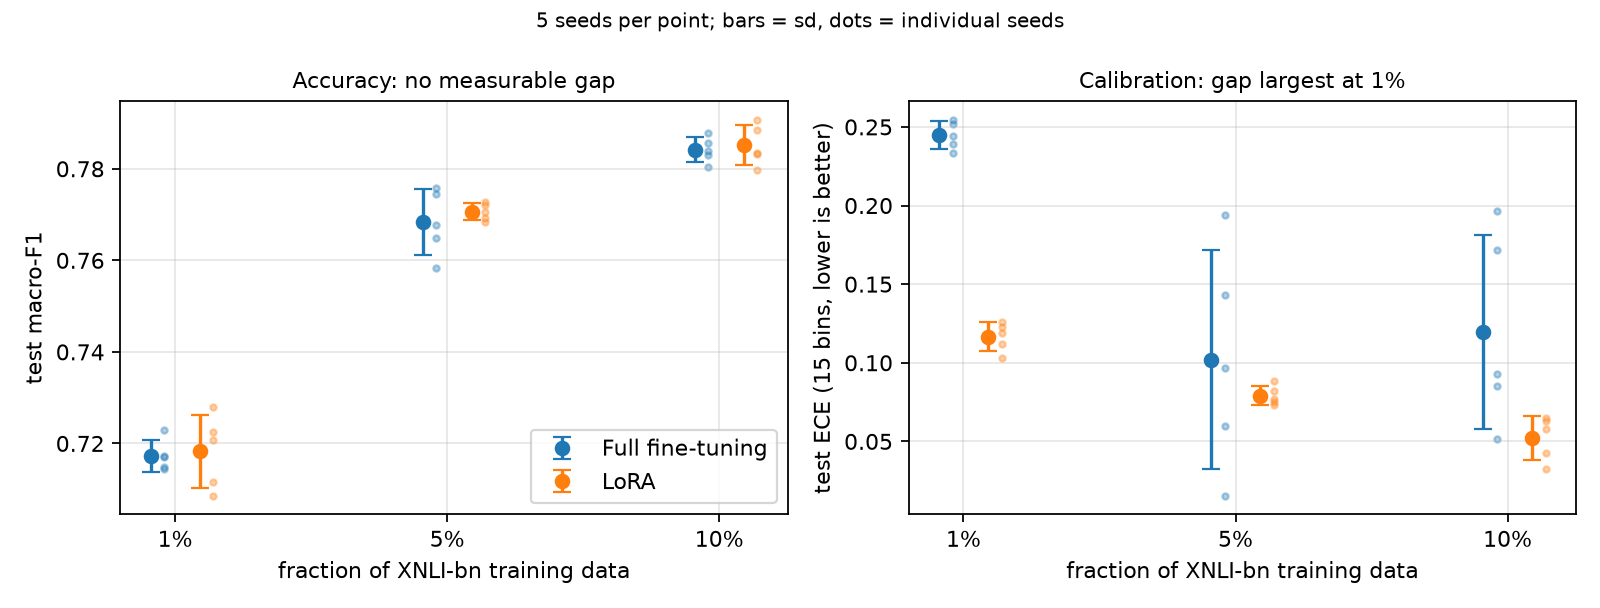
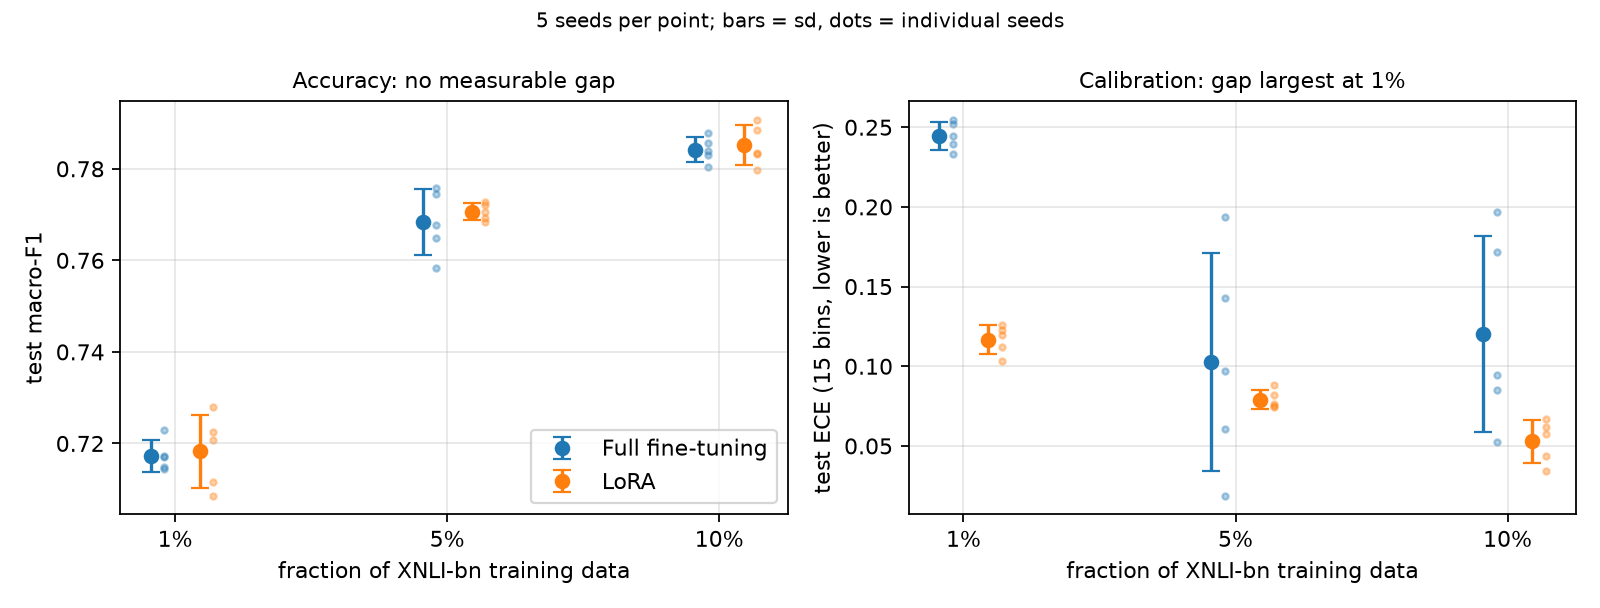
Add Brier, NLL and 5-fold temperature scaling; report seed- and item-level CIs
- ECE bins now span the attainable range [1/3, 1].
- Brier score and NLL alongside ECE.
- Temperature scaling is 5-fold cross-validated on the test set.
- Calibration differences get a seed-level CI (includes training variability)
  and an item-level bootstrap CI (models fixed). At 5% and 10% only the
  item-level intervals exclude zero.
- TOST at +/-0.01 macro-F1 with exact p-values; 5% is on the boundary.
- README: calibration table, TOST table, subset-indices limitation.

diff --git a/src/analyze.py b/src/analyze.py
@@ -1,17 +1,20 @@
 """Every number in the README, recomputed from results/. No GPU needed.
 
     python src/analyze.py                  # tables to stdout, figures to figures/
-    python src/analyze.py --margin 0.01    # also run TOST at a stated margin
+    python src/analyze.py --margin 0.02    # TOST at another margin (default 0.01)
 
 Reads runs/*.json (manifests), preds/*_test.npz (test logits and labels),
 curves/*.json (per-epoch dev curves) and superseded_runs.csv (the six earlier runs
-that A100 re-runs replaced). Only test logits are saved, so temperature scaling is
-cross-fitted on the test set: fit T on one half, score ECE on the other, swap and
-average. It is a sensitivity check, not a validation-fitted calibration result.
+that A100 re-runs replaced).
 
-No equivalence margin was fixed before the data were collected, so TOST runs only
-when --margin is given. Otherwise the smallest margin each 90% CI would support is
-reported, which is descriptive, not a test.
+Calibration differences get two intervals, because they answer different questions:
+  seed-level  paired t over the five seeds. Includes training variability, so it is
+              the one that says whether retraining would give the same answer.
+  item-level  paired bootstrap over test items with the five trained models held
+              fixed. It only covers test-set sampling noise for these models.
+
+Only test logits are saved, so temperature scaling is 5-fold cross-validated on the
+test set: T is fitted on four folds and applied to the fifth.
 """
 import argparse
 import glob
@@ -28,6 +31,8 @@ METHODS = ("full_ft", "lora")
 LABEL = {"full_ft": "Full fine-tuning", "lora": "LoRA"}
 N_BINS = 15
 BOOT_N = 10000
+ITEM_BOOT_N = 2000
+TOST_MARGIN = 0.01   # one macro-F1 point; set after data collection, not pre-registered
 
 
 def softmax(z):
@@ -37,33 +42,58 @@ def softmax(z):
 
 
 def ece(p, y, n_bins=N_BINS):
-    """Expected calibration error, equal-width confidence bins on the top-1 prob."""
-    conf, pred = p.max(1), p.argmax(1)
-    edges = np.linspace(0, 1, n_bins + 1)
+    """Top-label expected calibration error. Equal-width bins span the attainable
+    confidence range [1/C, 1]; with 3 classes the top probability is never below 1/3."""
+    conf, correct = p.max(1), p.argmax(1) == y
+    edges = np.linspace(1.0 / p.shape[1], 1.0, n_bins + 1)
+    edges[0], edges[-1] = 0.0, 1.0 + 1e-9
     total = 0.0
     for lo, hi in zip(edges[:-1], edges[1:]):
-        m = (conf > lo) & (conf <= hi)
+        m = (conf >= lo) & (conf < hi)
         if m.any():
-            total += m.mean() * abs((pred[m] == y[m]).mean() - conf[m].mean())
+            total += m.mean() * abs(correct[m].mean() - conf[m].mean())
     return total
 
 
+def nll(p, y):
+    return float(-np.log(np.clip(p[np.arange(len(y)), y], 1e-12, 1.0)).mean())
+
+
+def brier(p, y):
+    return float(((p - np.eye(p.shape[1])[y]) ** 2).sum(1).mean())
+
+
+CALIBRATION = {"ECE": ece, "Brier": brier, "NLL": nll}
+
+
 def fit_temperature(logits, y):
-    def nll(t):
-        p = softmax(logits / t)
-        return -np.log(p[np.arange(len(y)), y] + 1e-12).mean()
-    return minimize_scalar(nll, bounds=(0.05, 20.0), method="bounded").x
+    return minimize_scalar(lambda t: nll(softmax(logits / t), y),
+                           bounds=(0.05, 10.0), method="bounded").x
 
 
-def crossfit_ece(logits, y, seed=0):
-    """Two-fold cross-fitted temperature scaling on the test set."""
-    idx = np.random.default_rng(seed).permutation(len(y))
-    a, b = idx[: len(y) // 2], idx[len(y) // 2:]
-    out = []
-    for fit, ev in ((a, b), (b, a)):
-        t = fit_temperature(logits[fit], y[fit])
-        out.append(ece(softmax(logits[ev] / t), y[ev]))
-    return float(np.mean(out))
+def cv_temperature(logits, y, seed, k=5):
+    """Temperature-scaled probabilities, each fold scaled by a T fitted on the
+    other k-1 folds. Returns (probs, mean T)."""
+    folds = np.array_split(np.random.default_rng(seed).permutation(len(y)), k)
+    out, temps = np.zeros_like(logits), []
+    for i, test in enumerate(folds):
+        train = np.concatenate([f for j, f in enumerate(folds) if j != i])
+        t = fit_temperature(logits[train], y[train])
+        temps.append(t)
+        out[test] = softmax(logits[test] / t)
+    return out, float(np.mean(temps))
+
+
+def item_bootstrap_gap(pairs, metric, rng, n_boot=ITEM_BOOT_N):
+    """95% CI on the seed-averaged LoRA - full difference in `metric`, resampling
+    test items (paired across methods and seeds) with the models held fixed."""
+    y = pairs[0][2]
+    boot = []
+    for _ in range(n_boot):
+        idx = rng.integers(0, len(y), len(y))
+        boot.append(np.mean([metric(pl[idx], yy[idx]) - metric(pf[idx], yy[idx])
+                             for pf, pl, yy in pairs]))
+    return np.percentile(boot, [2.5, 97.5])
 
 
 def paired_t_ci(d, level=0.95):
@@ -88,16 +118,16 @@ def mcnemar_exact(right_a, right_b):
     return b, c, stats.binomtest(b, b + c, 0.5).pvalue if b + c else 1.0
 
 
-def gap_line(d, margin=None):
+def gap_line(d, margin):
     lo, hi = paired_t_ci(d)
     lo90, hi90 = paired_t_ci(d, 0.90)
-    out = (f"gap {d.mean():+.4f}  95% CI [{lo:+.4f}, {hi:+.4f}]  "
-           f"p={stats.ttest_rel(d, np.zeros(len(d))).pvalue:.3f}  "
-           f"90% CI [{lo90:+.4f}, {hi90:+.4f}]  "
-           f"smallest supported margin {max(-lo90, hi90):.4f}")
-    if margin:
-        out += f"  TOST {'EQUIVALENT' if lo90 > -margin and hi90 < margin else 'not shown'}"
-    return out
+    se = d.std(ddof=1) / np.sqrt(len(d))
+    p_tost = max(1 - stats.t.cdf((d.mean() + margin) / se, len(d) - 1),
+                 stats.t.cdf((d.mean() - margin) / se, len(d) - 1))
+    return (f"gap {d.mean():+.4f}  95% CI [{lo:+.4f}, {hi:+.4f}]  "
+            f"p={stats.ttest_rel(d, np.zeros(len(d))).pvalue:.3f}  "
+            f"90% CI [{lo90:+.4f}, {hi90:+.4f}]  "
+            f"TOST +/-{margin:g} p={p_tost:.6f}")
 
 
 def sensitivity(art, wide, margin):
@@ -136,9 +166,8 @@ def main():
     ap = argparse.ArgumentParser(description=__doc__.split("\n")[0])
     ap.add_argument("--artifacts", default="results")
     ap.add_argument("--figures", default="figures")
-    ap.add_argument("--margin", type=float, default=None,
-                    help="TOST equivalence margin on macro-F1. Must be justified "
-                         "independently of these results; none is by default.")
+    ap.add_argument("--margin", type=float, default=TOST_MARGIN,
+                    help="TOST equivalence margin on macro-F1 (default 0.01)")
     args = ap.parse_args()
     art = args.artifacts
 
@@ -156,22 +185,23 @@ def main():
     for _, r in runs.iterrows():
         logits, y = load(art, r.run_id)
         p = softmax(logits)
-        preds[r.run_id] = (logits, p, y)
+        p_ts, temp = cv_temperature(logits, y, seed=int(r.seed))
+        preds[r.run_id] = (logits, p, y, p_ts)
         rows.append(dict(run_id=r.run_id, method=r.method, fraction=r.fraction, seed=r.seed,
                          gpu=r.gpu, best_epoch=r.best_epoch, ceiling_hit=r.ceiling_hit,
                          f1=f1_score(y, p.argmax(1), average="macro"),
                          acc=(p.argmax(1) == y).mean(), conf=p.max(1).mean(),
-                         ece=ece(p, y), ece_ts=crossfit_ece(logits, y)))
+                         ECE=ece(p, y), Brier=brier(p, y), NLL=nll(p, y),
+                         ECE_ts=ece(p_ts, y), T=temp))
     m = pd.DataFrame(rows)
     wide = m.pivot_table(index=["fraction", "seed"], columns="method",
-                         values=["f1", "ece", "ece_ts", "best_epoch"])
+                         values=["f1", "ECE", "Brier", "NLL", "ECE_ts", "best_epoch"])
 
     split = runs.groupby(["fraction", "seed"]).gpu.nunique()
     print(f"(fraction, seed) pairs split across GPUs: {int((split > 1).sum())}")
 
     # ---- accuracy + TOST -----------------------------------------------------
-    print("\n=== test macro-F1"
-          + (f" (TOST margin +/-{args.margin})" if args.margin else "") + " ===")
+    print(f"\n=== test macro-F1 (TOST margin +/-{args.margin:g}, p < 0.05 = equivalent) ===")
     for f in fractions:
         a, b = wide.loc[f, ("f1", "full_ft")], wide.loc[f, ("f1", "lora")]
         print(f"{f:<5g} full {a.mean():.4f} (sd {a.std():.4f})  lora {b.mean():.4f} "
@@ -184,8 +214,8 @@ def main():
     tests = []
     for f in fractions:
         for s in seeds:
-            _, pf, y = preds[f"full_ft_frac{f:g}_seed{s}"]
-            _, pl, _ = preds[f"lora_frac{f:g}_seed{s}"]
+            _, pf, y, _ = preds[f"full_ft_frac{f:g}_seed{s}"]
+            _, pl, _, _ = preds[f"lora_frac{f:g}_seed{s}"]
             b, c, p = mcnemar_exact(pf.argmax(1) == y, pl.argmax(1) == y)
             tests.append((f, s, b, c, p, (pf.argmax(1) == pl.argmax(1)).mean()))
     adj = holm(np.array([t[4] for t in tests]))
@@ -202,26 +232,32 @@ def main():
           .agg({"agree": "mean", "b": "sum", "c": "sum"}).round(4).to_string())
 
     # ---- calibration ---------------------------------------------------------
-    rng = np.random.default_rng(0)
-    print(f"\n=== calibration: ECE ({N_BINS} bins), paired over seeds ===")
+    rng = np.random.default_rng(20260910)
+    print(f"\n=== calibration, LoRA - full (negative = LoRA better; ECE {N_BINS} bins) ===")
+    print("seed-level: paired t over seeds (includes training variability)")
+    print("item-level: paired bootstrap over test items, models held fixed")
     for f in fractions:
-        ef, el = wide.loc[f, ("ece", "full_ft")], wide.loc[f, ("ece", "lora")]
-        d = (el - ef).values
-        boot = rng.choice(d, (BOOT_N, len(d))).mean(1)
-        tf, tl = wide.loc[f, ("ece_ts", "full_ft")], wide.loc[f, ("ece_ts", "lora")]
-        dt = (tl - tf).values
-        lo_t, hi_t = paired_t_ci(dt)
-        sub = m[m.fraction == f].groupby("method")[["conf", "acc"]].mean()
-        print(f"{f:<5g} full {ef.mean():.3f} (sd {ef.std():.3f})  lora {el.mean():.3f} "
-              f"(sd {el.std():.3f})  dECE {d.mean():+.3f}  p={stats.ttest_rel(el, ef).pvalue:.2g}  "
-              f"t-CI [{paired_t_ci(d)[0]:+.3f}, {paired_t_ci(d)[1]:+.3f}]  "
-              f"seed-bootstrap CI [{np.percentile(boot, 2.5):+.3f}, {np.percentile(boot, 97.5):+.3f}]  "
-              f"dz={d.mean() / d.std(ddof=1):.1f}  seeds LoRA better {int((d < 0).sum())}/{len(d)}")
-        print(f"      mean confidence full {sub.loc['full_ft', 'conf']:.3f} / lora "
+        pairs_raw = [(preds[f"full_ft_frac{f:g}_seed{s}"][1], preds[f"lora_frac{f:g}_seed{s}"][1],
+                      preds[f"full_ft_frac{f:g}_seed{s}"][2]) for s in seeds]
+        pairs_ts = [(preds[f"full_ft_frac{f:g}_seed{s}"][3], preds[f"lora_frac{f:g}_seed{s}"][3],
+                     preds[f"full_ft_frac{f:g}_seed{s}"][2]) for s in seeds]
+        sub = m[m.fraction == f].groupby("method")[["conf", "acc", "T"]].mean()
+        print(f"{f:g}: mean confidence full {sub.loc['full_ft', 'conf']:.3f} / lora "
               f"{sub.loc['lora', 'conf']:.3f} at accuracy {sub.loc['full_ft', 'acc']:.3f} / "
-              f"{sub.loc['lora', 'acc']:.3f}")
-        print(f"      after cross-fitted temperature scaling: full {tf.mean():.3f}  lora "
-              f"{tl.mean():.3f}  dECE {dt.mean():+.3f}  t-CI [{lo_t:+.3f}, {hi_t:+.3f}]")
+              f"{sub.loc['lora', 'acc']:.3f}; fitted T full {sub.loc['full_ft', 'T']:.2f}, "
+              f"lora {sub.loc['lora', 'T']:.2f}")
+        for name, col, pairs, fn in (("ECE", "ECE", pairs_raw, ece),
+                                     ("Brier", "Brier", pairs_raw, brier),
+                                     ("NLL", "NLL", pairs_raw, nll),
+                                     ("ECE after T", "ECE_ts", pairs_ts, ece)):
+            a_, b_ = wide.loc[f, (col, "full_ft")], wide.loc[f, (col, "lora")]
+            d = (b_ - a_).values
+            lo, hi = paired_t_ci(d)
+            ilo, ihi = item_bootstrap_gap(pairs, fn, rng)
+            print(f"  {name:12s} full {a_.mean():.4f} (sd {a_.std():.4f})  lora {b_.mean():.4f} "
+                  f"(sd {b_.std():.4f})  diff {d.mean():+.4f}  seed-level [{lo:+.4f}, {hi:+.4f}] "
+                  f"p={stats.ttest_rel(b_, a_).pvalue:.2g}  LoRA lower in {int((d < 0).sum())}/{len(d)}"
+                  f"  item-level [{ilo:+.4f}, {ihi:+.4f}]")
 
     # ---- convergence ---------------------------------------------------------
     print("\n=== best (dev-selected) epoch ===")
@@ -259,7 +295,7 @@ def figures(art, out, m, fractions):
     fig, axes = plt.subplots(1, 2, figsize=(10, 3.8))
     for ax, col, ylabel, title in (
             (axes[0], "f1", "test macro-F1", "Accuracy: no measurable gap"),
-            (axes[1], "ece", f"test ECE ({N_BINS} bins, lower is better)",
+            (axes[1], "ECE", f"test ECE ({N_BINS} bins, lower is better)",
              "Calibration: gap largest at 1%")):
         for j, meth in enumerate(METHODS):
             g = m[m.method == meth].groupby("fraction")[col]

diff --git a/README.md b/README.md
@@ -10,8 +10,8 @@ the training set with five seeds each, for 30 runs.
 
 | | Result |
 |---|---|
-| Accuracy | No measurable difference at any data size. Test macro-F1 gaps are +0.0010 to +0.0024 and every 95% CI includes zero. |
-| Calibration | At 1% data, full fine-tuning is badly overconfident (ECE 0.245 vs 0.117). At 5% and 10% the gap is smaller and not significant. |
+| Accuracy | No measurable difference at any data size (gaps +0.0010 to +0.0024, every 95% CI includes zero). Equivalent within ±0.01 macro-F1 at 1% and 10%; at 5% the test sits exactly on the boundary. |
+| Calibration | At 1% data, full fine-tuning is badly overconfident (ECE 0.245 vs 0.117), consistently across seeds. At 5% and 10% the raw gap is not consistent across seeds. After temperature scaling LoRA keeps a small edge in every seed at every fraction. |
 | Efficiency | LoRA trains 0.80% of the parameters, saves a 124× smaller artefact, and uses 25% (T4) to 42% (A100) less peak GPU memory. |
 | Speed | LoRA is 1.5–2.1× faster on a T4 but not faster on an A100 (parity at 1%, about 6% slower at 5–10%). |
 
@@ -28,7 +28,7 @@ the training set with five seeds each, for 30 runs.
 | LoRA | r=8, alpha=16, dropout 0.1, on `query` and `value`, learning rate 2e-4 |
 | Training | 8 epochs, batch size 16, fp16, no early stopping |
 | Model selection | epoch with the best validation macro-F1; test scored once per run |
-| Subsets | `train.shuffle(seed).select(range(n))`, so both methods see the same data per seed |
+| Subsets | `train.shuffle(seed).select(range(n))`: same subset for both methods per seed (indices not saved) |
 | Seeds | 7, 13, 21, 33, 42 |
 
 Both methods get the same fixed budget. In a pilot, early stopping with patience 2 stopped
@@ -53,30 +53,65 @@ All numbers come from `python src/analyze.py`. The full output is in
 ± is the standard deviation over seeds. Per-seed exact McNemar tests: 1 of 15 has
 p < 0.05 and none survives Holm correction.
 
-No equivalence margin was fixed before the experiment, so no equivalence claim is made.
-The 90% CIs would support margins of ±0.0059 (1%), ±0.0100 (5%) and ±0.0065 (10%).
+Equivalence is tested with TOST at a margin of ±0.01 macro-F1 (one point). The margin was
+set in the analysis after the runs had finished; it was not pre-registered.
+
+| Fraction | 90% CI of the gap | TOST p (±0.01) |
+|---|---|---|
+| 1% | [−0.0039, +0.0059] | 0.009 |
+| 5% | [−0.0053, +0.0100] | 0.050 |
+| 10% | [−0.0046, +0.0065] | 0.013 |
+
+At 5% the upper bound of the 90% CI equals the margin (p = 0.049997), so equivalence there
+depends on the fourth decimal and is not claimed.
 
 The two methods reach the same score with different predictions. They agree on 83.9% (1%),
 86.6% (5%) and 86.9% (10%) of test items.
 
 ### Calibration
 
-Expected calibration error, 15 equal-width bins:
+Differences are LoRA minus full fine-tuning, so negative means LoRA is better calibrated.
+ECE uses 15 equal-width bins over the attainable confidence range [1/3, 1].
 
-| Fraction | Full FT ECE | LoRA ECE | Difference | 95% CI | p | Seeds where LoRA is lower |
-|---|---|---|---|---|---|---|
-| 1% | 0.245 ± 0.009 | 0.117 ± 0.009 | −0.128 | [−0.139, −0.117] | 5 × 10⁻⁶ | 5/5 |
-| 5% | 0.102 ± 0.070 | 0.079 ± 0.006 | −0.023 | [−0.103, +0.058] | 0.48 | 3/5 |
-| 10% | 0.120 ± 0.062 | 0.052 ± 0.014 | −0.067 | [−0.150, +0.015] | 0.085 | 4/5 |
+Two intervals are given because they answer different questions. The **seed-level** CI
+(paired t over the five seeds) includes training variability: it indicates whether
+retraining would give the same answer. The **item-level** CI (paired bootstrap over test
+items, models held fixed) only covers test-set sampling noise for these five models, and is
+always much narrower.
+
+| Fraction | Metric | Full FT | LoRA | Difference | Seed-level 95% CI | p | LoRA lower | Item-level 95% CI |
+|---|---|---|---|---|---|---|---|---|
+| 1% | ECE | 0.245 | 0.117 | −0.128 | [−0.139, −0.117] | 5 × 10⁻⁶ | 5/5 | [−0.134, −0.121] |
+| | Brier | 0.517 | 0.416 | −0.101 | [−0.110, −0.091] | 8 × 10⁻⁶ | 5/5 | [−0.110, −0.091] |
+| | NLL | 1.334 | 0.754 | −0.579 | [−0.718, −0.441] | 0.0003 | 5/5 | [−0.611, −0.546] |
+| | ECE after T | 0.066 | 0.026 | −0.040 | [−0.056, −0.024] | 0.002 | 5/5 | [−0.043, −0.029] |
+| 5% | ECE | 0.103 | 0.079 | −0.023 | [−0.102, +0.056] | 0.46 | 3/5 | [−0.030, −0.019] |
+| | Brier | 0.362 | 0.338 | −0.023 | [−0.068, +0.021] | 0.21 | 4/5 | [−0.030, −0.017] |
+| | NLL | 0.721 | 0.614 | −0.108 | [−0.340, +0.124] | 0.27 | 3/5 | [−0.122, −0.094] |
+| | ECE after T | 0.034 | 0.017 | −0.017 | [−0.030, −0.003] | 0.027 | 5/5 | [−0.018, −0.007] |
+| 10% | ECE | 0.120 | 0.053 | −0.067 | [−0.150, +0.015] | 0.087 | 4/5 | [−0.071, −0.061] |
+| | Brier | 0.352 | 0.313 | −0.039 | [−0.087, +0.009] | 0.086 | 5/5 | [−0.046, −0.033] |
+| | NLL | 0.812 | 0.563 | −0.249 | [−0.658, +0.161] | 0.17 | 4/5 | [−0.269, −0.230] |
+| | ECE after T | 0.030 | 0.014 | −0.016 | [−0.033, +0.000] | 0.053 | 5/5 | [−0.018, −0.007] |
 
 At 1%, full fine-tuning's mean confidence is 96.0% at 71.6% accuracy; LoRA's is 83.4% at
-71.7%. Temperature scaling reduces the 1% gap to −0.027 (95% CI [−0.043, −0.011]). Only
-test logits were saved, so the temperature is fitted on one half of the test set and
-evaluated on the other.
+71.7%. The gap holds for every metric and both kinds of interval.
 
-Full fine-tuning's ECE varies a lot between seeds at 5% and 10%, along with its selected
-epoch. The calibration difference is therefore tied to checkpoint selection under this
-protocol and is not claimed as a general property of LoRA.
+At 5% and 10%, the item-level intervals exclude zero but the seed-level ones do not. Full
+fine-tuning's calibration varies a lot between seeds (ECE from 0.019 to 0.194 at 5%), and in
+two of the five 5% seeds it is better calibrated than LoRA. So for these five models LoRA is
+better calibrated on average, but a retrained pair could come out either way.
+
+"ECE after T" applies temperature scaling. Only test logits were saved, so the temperature
+is fitted by 5-fold cross-validation on the test set (fit on four folds, apply to the
+fifth), not on a validation set as usual. The fitted temperatures are larger for full
+fine-tuning (3.11, 1.64, 2.04) than for LoRA (1.64, 1.45, 1.30). After scaling, LoRA's ECE is
+lower in every seed at every fraction. This residual difference is small, and the three
+tests are not corrected for multiple comparisons.
+
+Full fine-tuning's raw ECE moves with its selected epoch, which scatters across seeds. The
+calibration difference is therefore tied to checkpoint selection under this protocol and is
+not claimed as a general property of LoRA.
 
 ### Convergence
 
@@ -118,11 +153,16 @@ fine-tuning to reach the checkpoint that is kept.
   [`results/superseded_runs.csv`](results/superseded_runs.csv); their logits were not kept.
   Individual scores changed by up to 0.0068, and all three pairs moved towards LoRA. With
   the earlier runs substituted, the gaps are −0.0004 [−0.0060, +0.0053] at 1% and
-  +0.0009 [−0.0104, +0.0123] at 5%. The conclusion does not change.
+  +0.0009 [−0.0104, +0.0123] at 5%, and TOST at ±0.01 gives p = 0.004 and p = 0.045. The
+  conclusion does not change.
 - **The 8-epoch budget may be too short for LoRA at 1%.** Its best epoch was the last one in
   4 of 5 seeds.
 - **Three data sizes are three points, not a scaling curve.** Nothing here tests what
   happens at 25% or more of the data.
+- **Training subsets were not saved.** Both methods use
+  `train.shuffle(seed).select(range(n))`, which gives the same subset per seed and nests
+  subsets across fractions by construction, but the indices were not recorded, so this is
+  not verified against the runs themselves.
 - **Five seeds per cell.** Confidence intervals are wide, and the calibration and
   convergence tests are not corrected for multiple comparisons.
 
